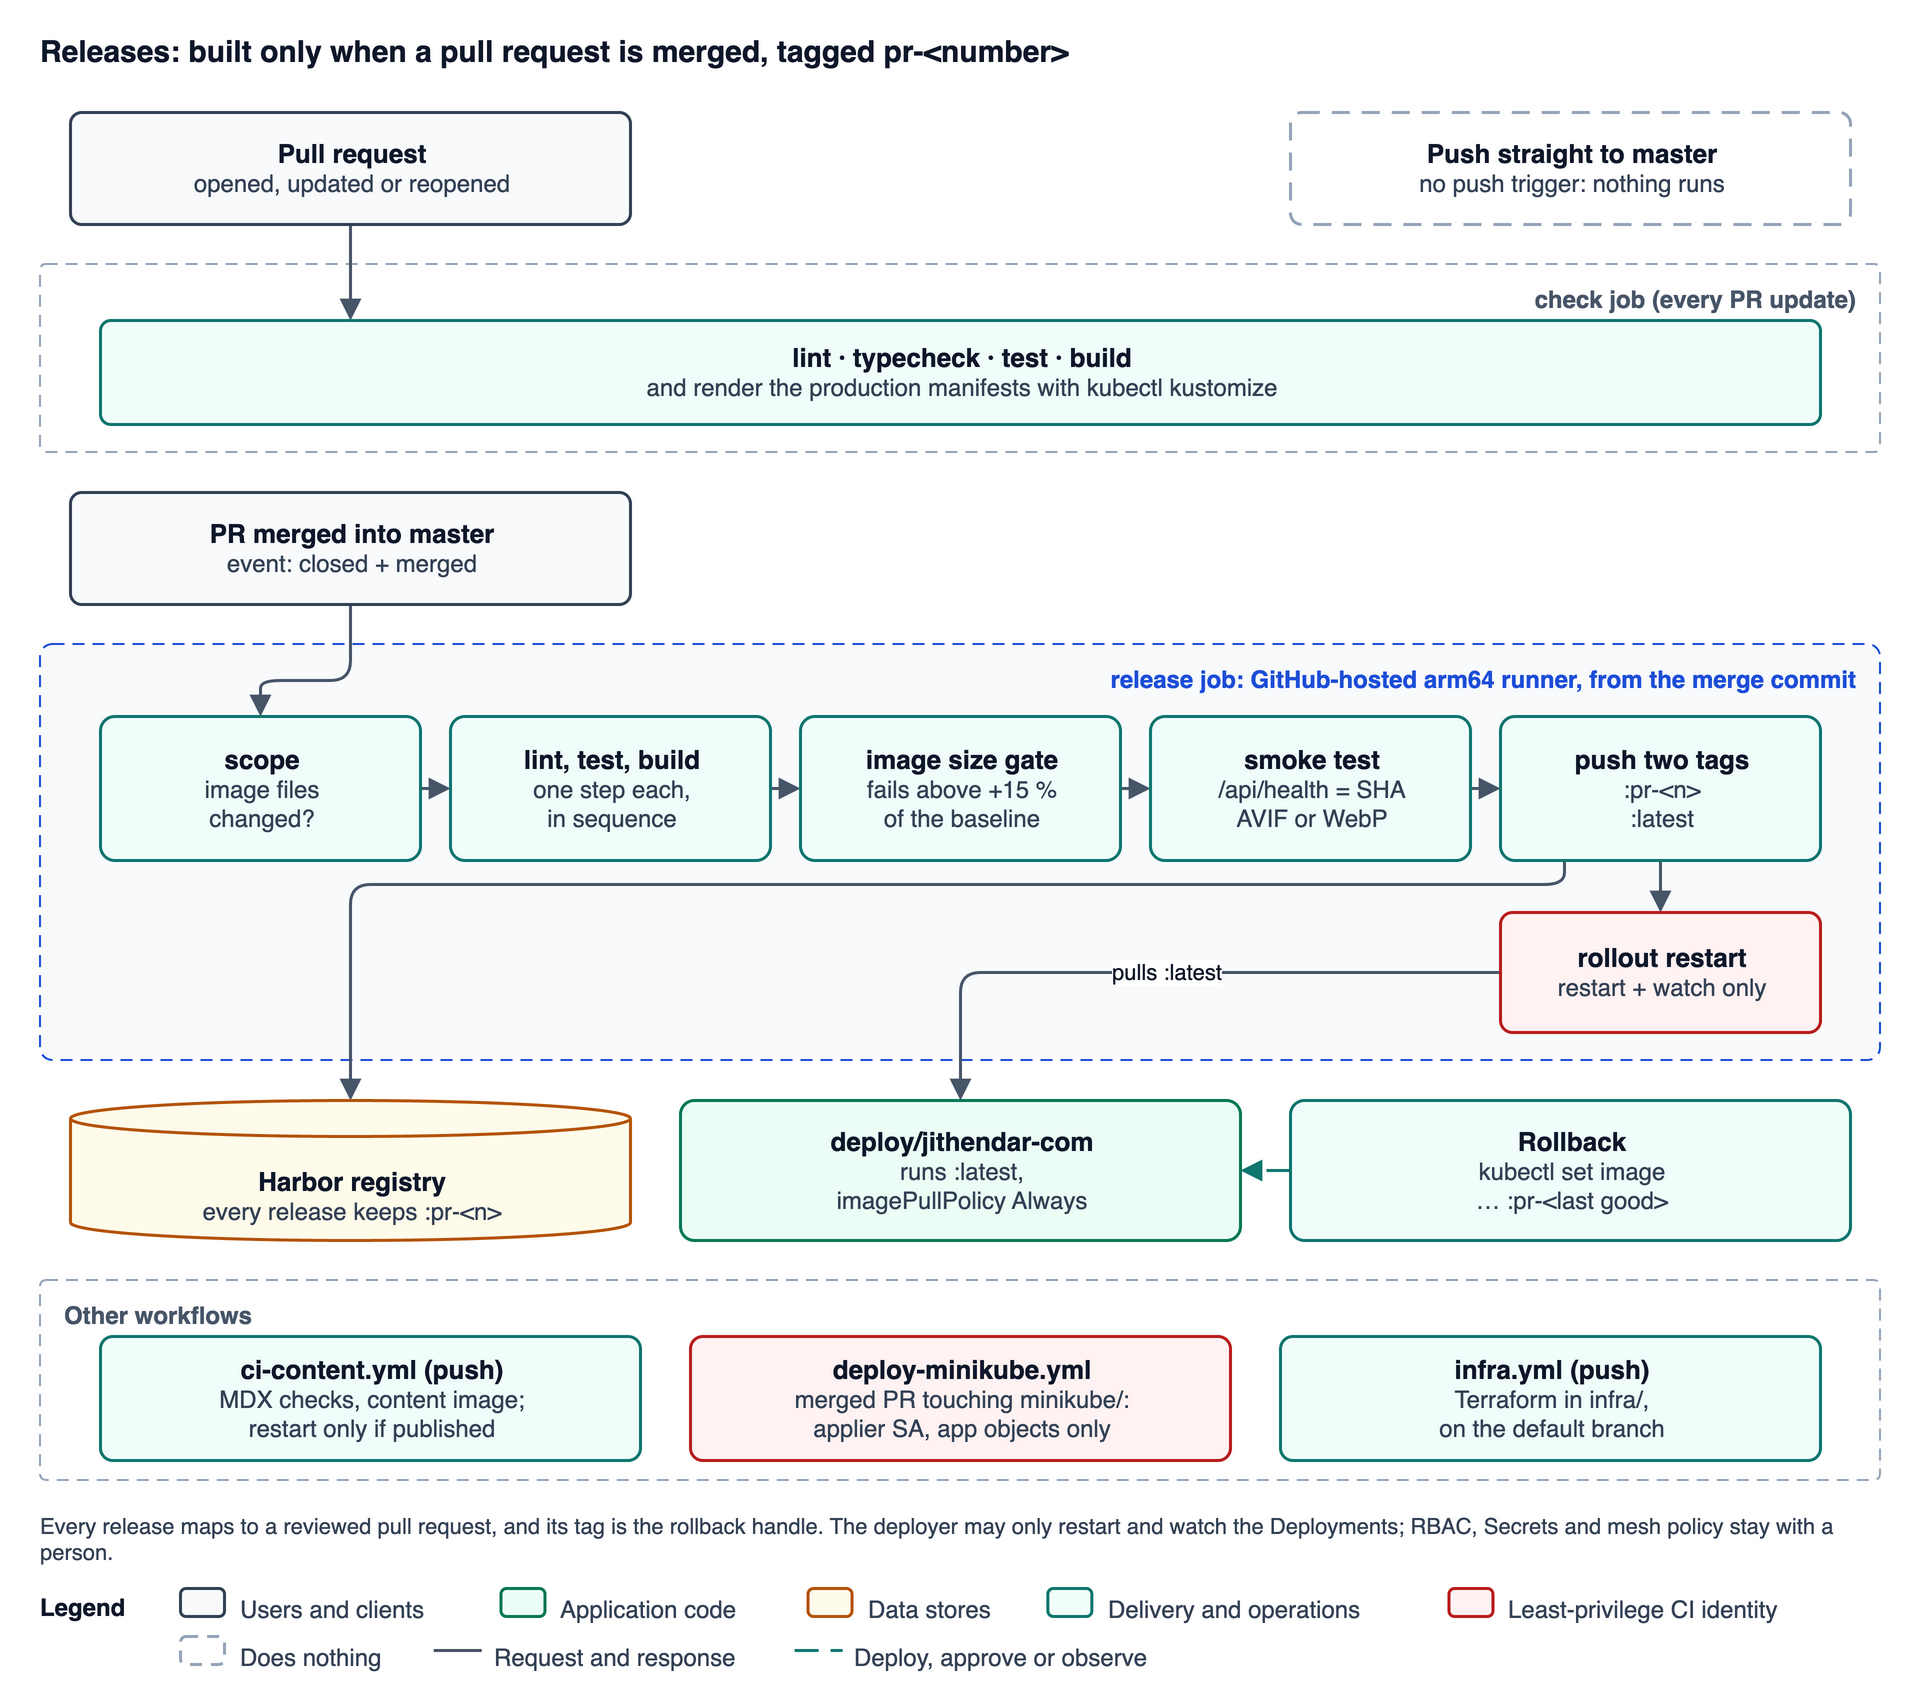
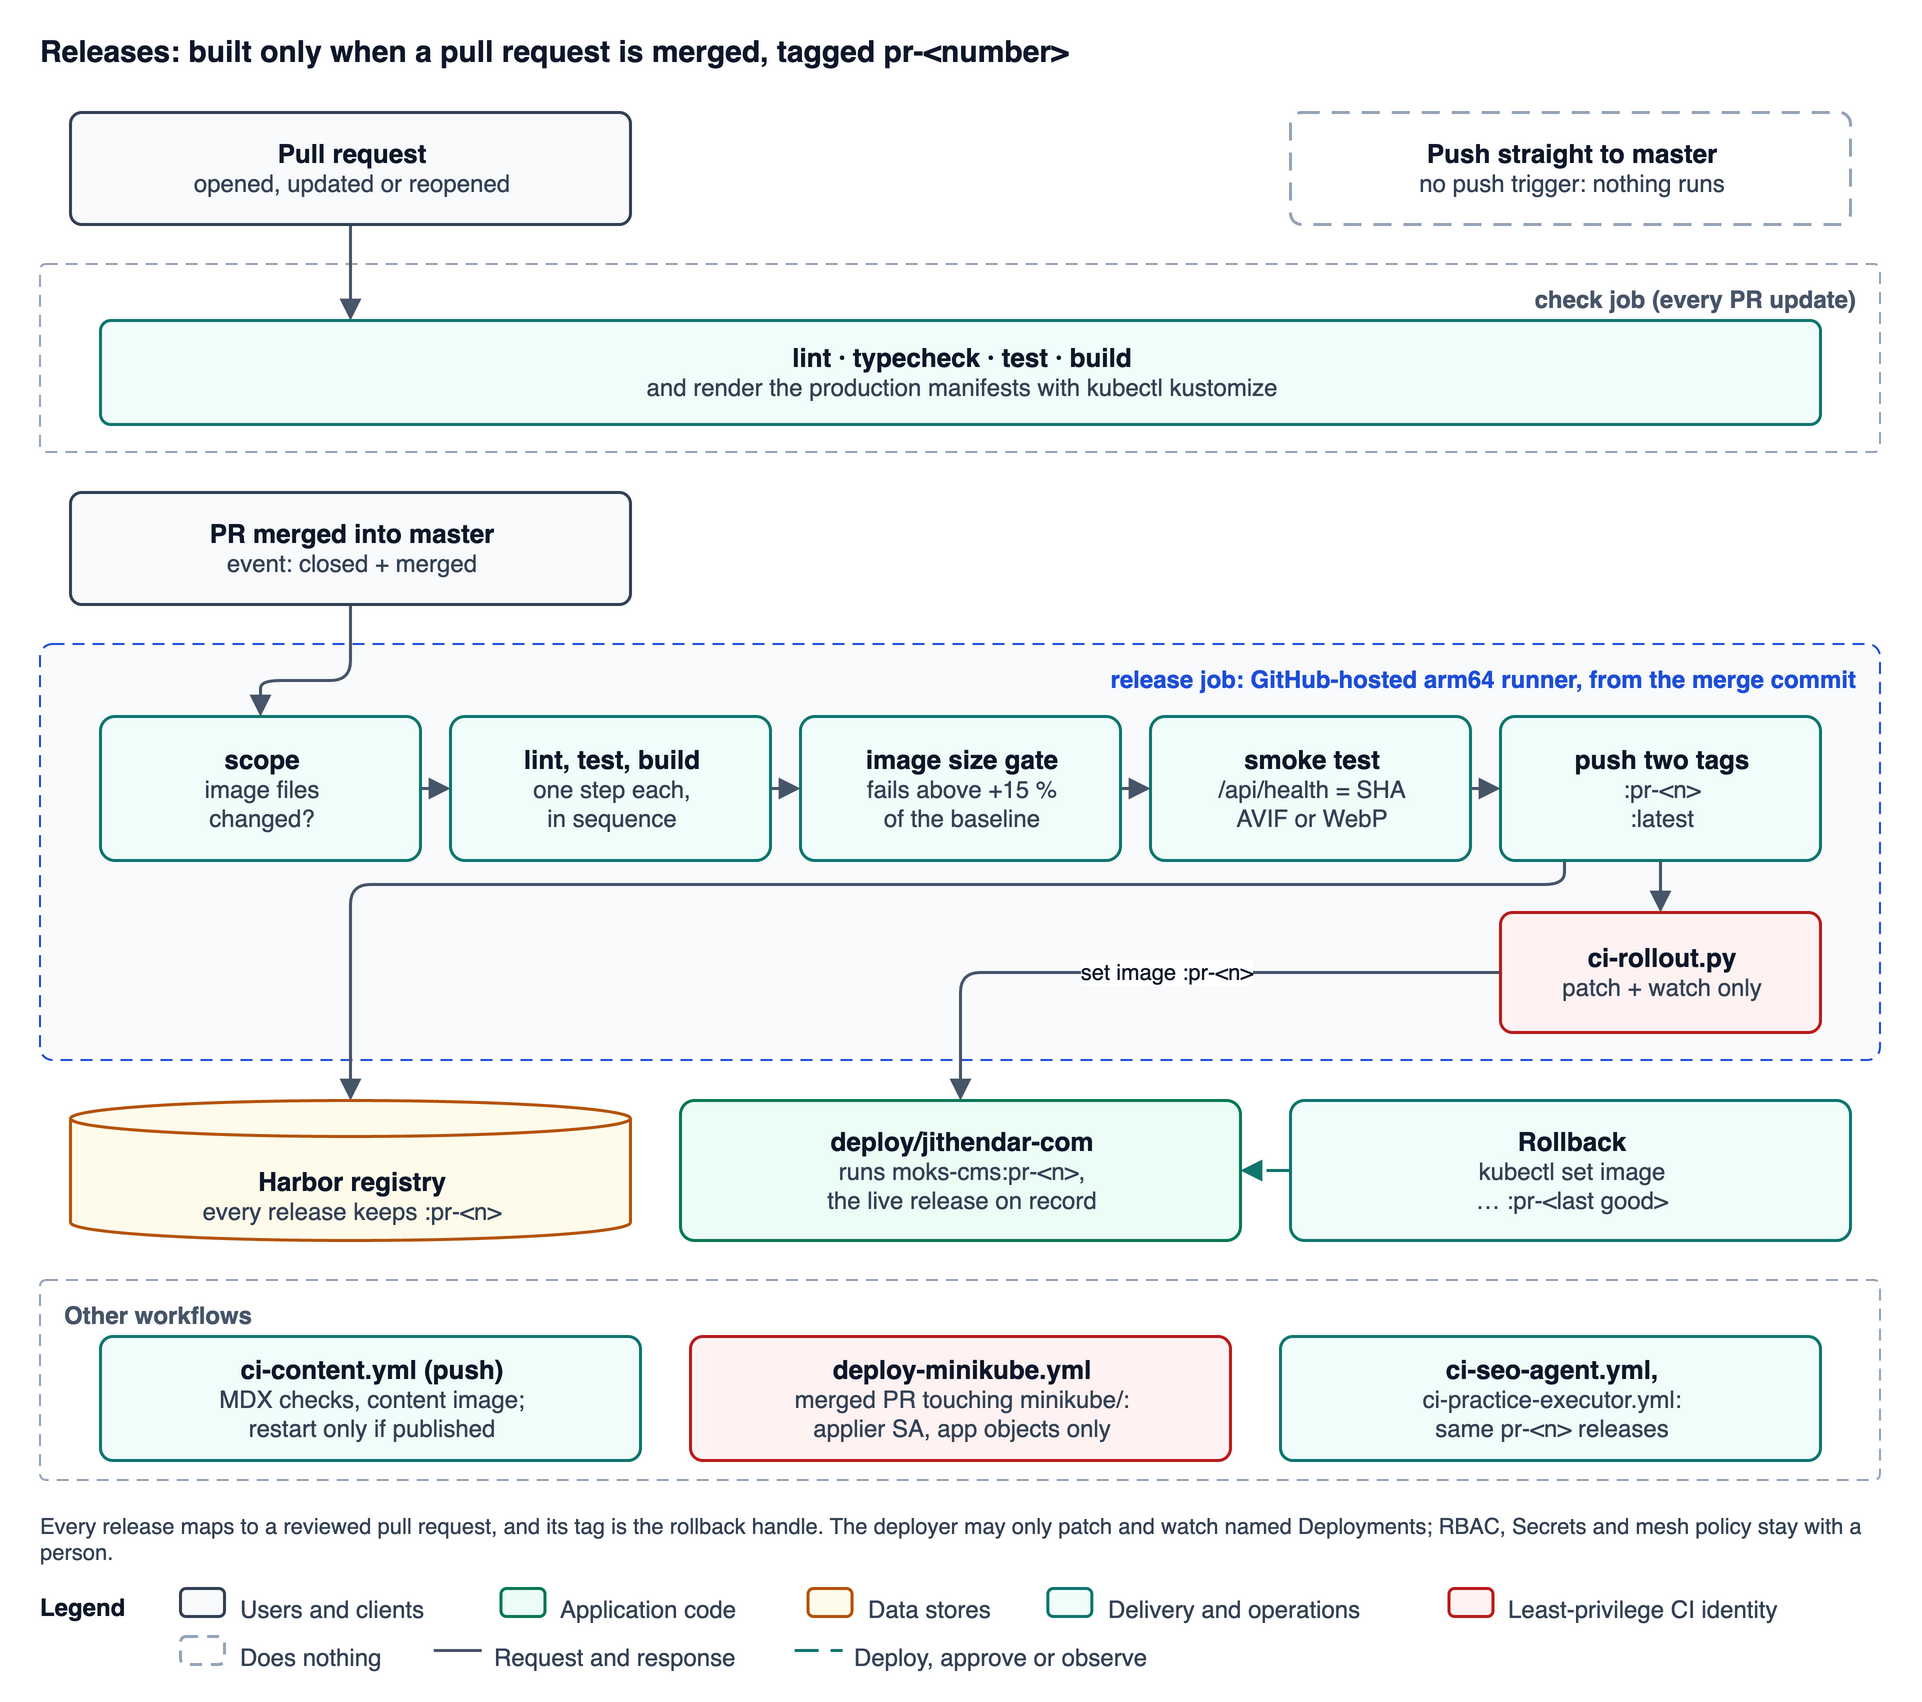
docs(content): bring articles up to date with the moks-cms rename and per-release tags
The repository and its images are now moks-cms (#83), each release runs its own
moks-cms:pr-<number> tag (#75), the ECR Terraform is gone (#77) and so is deploy.sh (#59).
Several articles still described the old setup in the present tense.

- github-actions-authenticate-minikube: Harbor robot instead of ECR OIDC, current Role
  (four Deployments, no ConfigMap), the current "Roll out" step with ci-rollout.py,
  section 8 retold as a fixed bug, minikube/ paths, list of next steps renumbered.
- how-i-built-jithendar-com: deployer may patch (set image) not only restart; no infra/
  or deploy.sh; release-pipeline figure regenerated (ci-rollout.py, moks-cms:pr-<n>).
- nextjs-site-on-kubernetes: Harbor, merge-triggered release, pr-<n> tags, deploy-minikube.yml.
- deploy-moks-cms-kubernetes-k3s / -amazon-eks: production no longer runs :latest or ECR.
- shell-scripting-vs-python: deploy.sh cited at commit 95c4f82, the last that had it.
- Where "jithendar.com" meant the codebase, it now says Moks CMS / moks-cms.

Unchanged on purpose: the jithendar.com domain, article slugs, and Kubernetes object,
metric and secret names (deploy/jithendar-com, job="jithendar-com", jithendar-com-*-tls),
which still name the site.

diff --git a/services/www/docs/knowledge-sharing/how-i-built-jithendar-com/diagrams/build_diagrams.py b/services/www/docs/knowledge-sharing/how-i-built-jithendar-com/diagrams/build_diagrams.py
@@ -134,16 +134,16 @@ def release():
              ("smoke", "smoke test", "/api/health = SHA", "AVIF or WebP"), ("pushs", "push two tags", ":pr-<n>", ":latest")]
     for i, (key, title, a, b) in enumerate(steps):
         d.node(key, "ops", 50 + i * 175, 358, 160, 72, title, a, b)
-    d.node("restart", "security", 750, 456, 160, 60, "rollout restart", "restart + watch only")
+    d.node("restart", "security", 750, 456, 160, 60, "ci-rollout.py", "patch + watch only")
     d.node("reg", "data", 35, 550, 280, 70, "Harbor registry", "every release keeps :pr-<n>", shape="db")
-    d.node("deploy", "service", 340, 550, 280, 70, "deploy/jithendar-com", "runs :latest,", "imagePullPolicy Always")
+    d.node("deploy", "service", 340, 550, 280, 70, "deploy/jithendar-com", "runs moks-cms:pr-<n>,", "the live release on record")
     d.node("rb", "ops", 645, 550, 280, 70, "Rollback", "kubectl set image", "… :pr-<last good>")
     d.zone("z-other", "Other workflows", 20, 640, 920, 100)
     d.node("content", "ops", 50, 668, 270, 62, "ci-content.yml (push)", "MDX checks, content image;",
            "restart only if published")
     d.node("manifests", "security", 345, 668, 270, 62, "deploy-minikube.yml", "merged PR touching minikube/:",
            "applier SA, app objects only")
-    d.node("infra", "ops", 640, 668, 270, 62, "infra.yml (push)", "Terraform in infra/,", "on the default branch")
+    d.node("infra", "ops", 640, 668, 270, 62, "ci-seo-agent.yml,", "ci-practice-executor.yml:", "same pr-<n> releases")
 
     d.edge("pr", "check", exit=(0.5, 1), entry=((175 - 50) / 860, 0))
     d.edge("merge", "scope", exit=(0.5, 1), entry=(0.5, 0), via=[(175, 340), (130, 340)])
@@ -151,10 +151,10 @@ def release():
         d.edge(a, b, exit=(1, 0.5), entry=(0, 0.5))
     d.edge("pushs", "restart", exit=(0.5, 1), entry=(0.5, 0))
     d.edge("pushs", "reg", exit=(0.2, 1), entry=(0.5, 0), via=[(782, 442), (175, 442)])
-    d.edge("restart", "deploy", exit=(0, 0.5), entry=(0.5, 0), via=[(480, 486)], label="pulls :latest")
+    d.edge("restart", "deploy", exit=(0, 0.5), entry=(0.5, 0), via=[(480, 486)], label="set image :pr-<n>")
     d.edge("rb", "deploy", exit=(0, 0.5), entry=(1, 0.5), kind="control")
     d.text("note", 20, 752, 920, 32, "Every release maps to a reviewed pull request, and its tag is the rollback handle. "
-           "The deployer may only restart and watch the Deployments; RBAC, Secrets and mesh policy stay with a person.",
+           "The deployer may only patch and watch named Deployments; RBAC, Secrets and mesh policy stay with a person.",
            size=11)
     d.legend(792, labels={"security": "Least-privilege CI identity", "optional": "Does nothing"})
     return d
